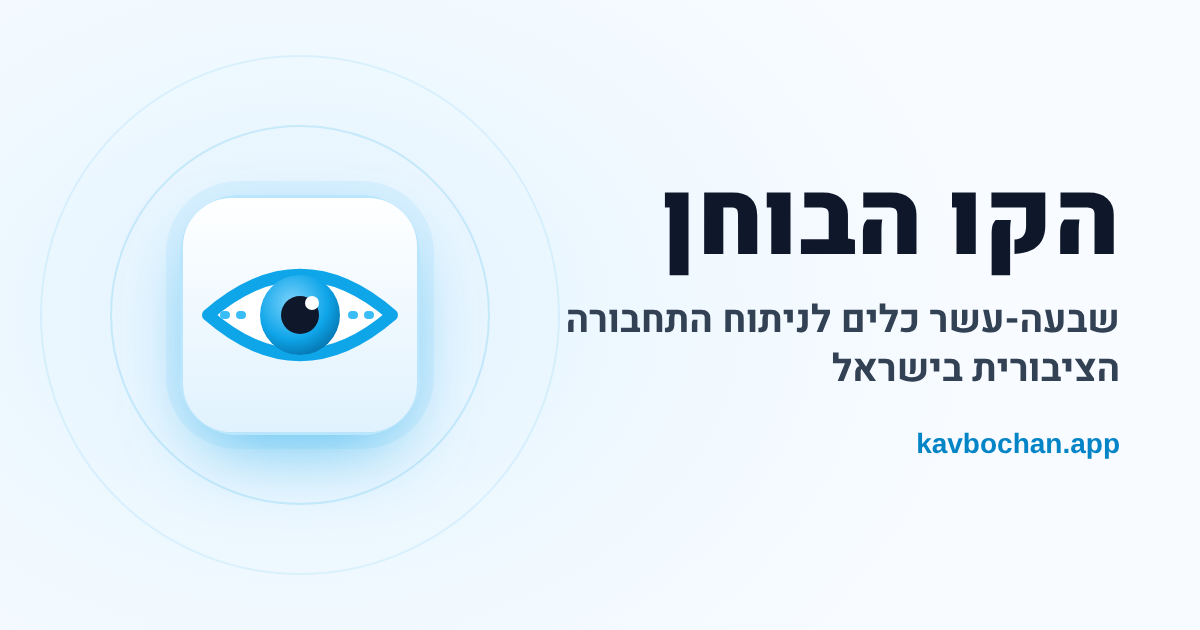
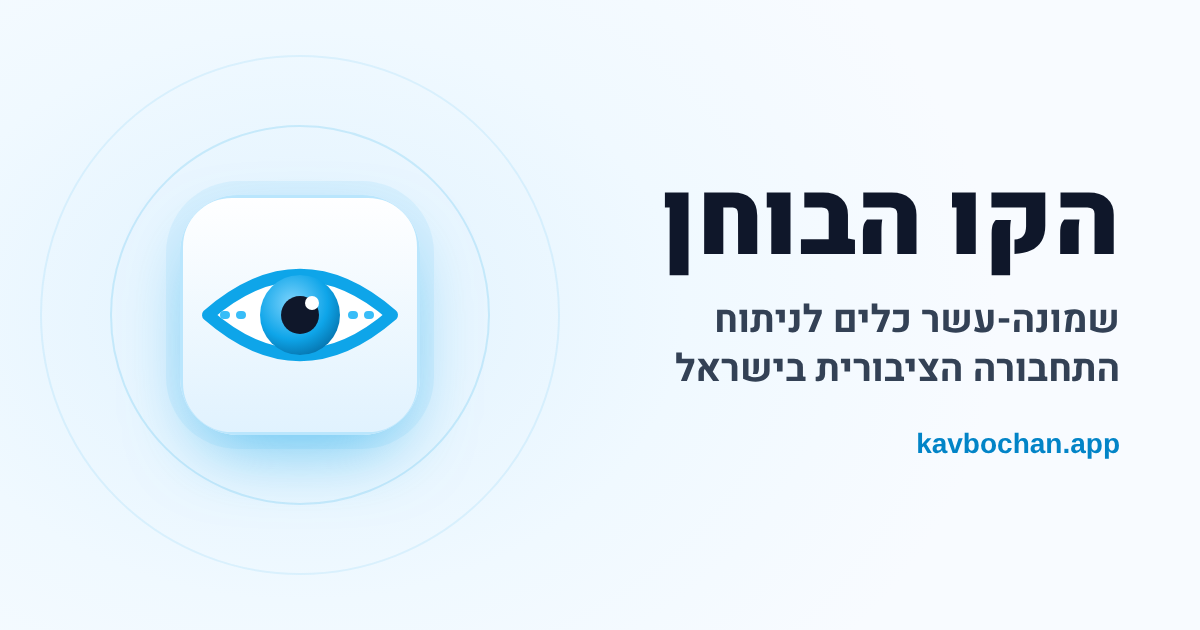
האוטובוס הבא עולה לקו הבוחן
- כרטיס חדש בדף הבית בקבוצה "ביצועים בשטח", עם סמל משלו; שמונה-עשר כלים
- דף הבית הקבוע ב-index.html נבנה מחדש (tools/build_kavpach.mjs)
- versions.json: live-bus 1.0, ודף הבית 5.4 "כלי חדש: האוטובוס הבא"
- live-bus/index.html: בלי noindex, גרסה בתחתית, חזרה לקו הבוחן, כרטיס שיתוף
- כרטיס שיתוף לכלי וכרטיס הקו הבוחן מחדש (og-image.png?v=10)
- sitemap, README ורשימת המפתחות ב-CLAUDE.md

Claude-Session: https://claude.ai/code/session_01XVdRW2zNZar2SDTYThjgoD

Changed region(s): [[0.4625, 0.4825, 0.925, 0.6032]]

diff --git a/index.html b/index.html
@@ -24,7 +24,7 @@
 <meta property="og:description" content="כלים חופשיים לבחינת התחבורה הציבורית: היסטוריית קווים ותחנות מ-2003, נגישות אזורי תעשייה, תחנות בעייתיות ועוד, על בסיס הנתונים הרשמיים וארכיון אתרי המידע לנוסעים." />
 <meta property="og:url" content="https://kavbochan.app/" />
 <meta property="og:site_name" content="הקו הבוחן" />
-<meta property="og:image" content="https://kavbochan.app/og-image.png?v=9" />
+<meta property="og:image" content="https://kavbochan.app/og-image.png?v=10" />
 <meta property="og:image:width" content="1200" />
 <meta property="og:image:height" content="630" />
 <meta name="twitter:card" content="summary_large_image" />
@@ -40,8 +40,8 @@
 <noscript><link href="https://fonts.googleapis.com/css2?family=Heebo:wght@300;400;500;700;800;900&family=IBM+Plex+Sans+Hebrew:wght@400;500;600;700&family=Rubik:wght@500;600;700;800;900&display=swap" rel="stylesheet" /></noscript>
 <link rel="stylesheet" href="vendor/kavpach.css?v=858214f49b" />
 <!-- דף הבית החדש (העין הבוחנת) ומראה הכלים קו פח והקו המוזהב — home/ -->
-<link rel="stylesheet" href="home/home.css?v=54a986c494" />
-<link rel="preload" as="script" href="home/home.js?v=54a986c494" />
+<link rel="stylesheet" href="home/home.css?v=7dadaca913" />
+<link rel="preload" as="script" href="home/home.js?v=7dadaca913" />
 <script>
   // רענון בתוך כלי (#kavpach / #מוזהב): לא מהבהבים את מסך הבחירה של הקו הבוחן
   // לפני שהאפליקציה עולה — מציגים טעינה מיד (שלמה 18.09)
@@ -110,17 +110,17 @@
 <header class="top"><div class="wrap">
 <a class="brand" href="./" data-top>הקו הבוחן</a>
 <nav class="nav" aria-label="ניווט ראשי"><a href="#tools">הכלים</a><a href="#g-lines">קווים ותחנות</a><a href="#g-rail">רכבת</a><a href="#partners">שיתופי פעולה</a><a href="#about" data-about>קצת עליי</a></nav>
-<button class="chip-ver" type="button" data-ver-chip title="מה השתנה בגרסה הזו">גרסה 5.3</button>
+<button class="chip-ver" type="button" data-ver-chip title="מה השתנה בגרסה הזו">גרסה 5.4</button>
 <a class="gh" href="https://github.com/Transit-Freak/kav-bochan" target="_blank" rel="noopener" aria-label="קוד המקור של האתר ב-GitHub" title="קוד המקור ב-GitHub"><svg viewBox="0 0 16 16" width="18" height="18" fill="currentColor" aria-hidden="true"><path d="M8 0C3.58 0 0 3.58 0 8c0 3.54 2.29 6.53 5.47 7.59.4.07.55-.17.55-.38 0-.19-.01-.82-.01-1.49-2.01.37-2.53-.49-2.69-.94-.09-.23-.48-.94-.82-1.13-.28-.15-.68-.52-.01-.53.63-.01 1.08.58 1.23.82.72 1.21 1.87.87 2.33.66.07-.52.28-.87.51-1.07-1.78-.2-3.64-.89-3.64-3.95 0-.87.31-1.59.82-2.15-.08-.2-.36-1.02.08-2.12 0 0 .67-.21 2.2.82.64-.18 1.32-.27 2-.27.68 0 1.36.09 2 .27 1.53-1.04 2.2-.82 2.2-.82.44 1.1.16 1.92.08 2.12.51.56.82 1.27.82 2.15 0 3.07-1.87 3.75-3.65 3.95.29.25.54.73.54 1.48 0 1.07-.01 1.93-.01 2.2 0 .21.15.46.55.38A8.013 8.013 0 0016 8c0-4.42-3.58-8-8-8z"/></svg></a>
 <span data-a11y-slot style="display:inline-flex;flex:none;width:44px;height:44px"></span>
 </div></header>
 <main>
 <section class="hero"><div class="wrap"><div>
 <div class="brandline"><h1 class="nm">הקו הבוחן</h1></div>
-<p class="h1">שבעה-עשר כלים לניתוח התחבורה הציבורית — במה לבחור?</p>
+<p class="h1">שמונה-עשר כלים לניתוח התחבורה הציבורית — במה לבחור?</p>
 <div class="ctas"><a class="btn btn-p" href="#tools">לכל הכלים <svg viewBox="0 0 20 20" fill="none" aria-hidden="true"><path d="M12.5 4.5 7 10l5.5 5.5" stroke="currentColor" stroke-width="2.2" stroke-linecap="round" stroke-linejoin="round"/></svg></a><button class="btn btn-s" type="button" data-about-btn aria-expanded="false" aria-controls="about">קצת עליי <svg class="car" viewBox="0 0 20 20" fill="none" aria-hidden="true"><path d="m5 8 5 5 5-5" stroke="currentColor" stroke-width="2.2" stroke-linecap="round" stroke-linejoin="round"/></svg></button></div>
 </div>
-<nav class="stage" aria-label="כל הכלים סביב העין הבוחנת"><div class="halo"></div><div class="oring"></div><div class="oring r2"></div><div class="beam"></div><div class="eye"><svg viewBox="0 0 120 120" aria-hidden="true"><defs><linearGradient id="kb-eye-bg-stage" x1="0" y1="0" x2="0" y2="1"><stop offset="0" stop-color="#ffffff"/><stop offset="1" stop-color="#e0f2fe"/></linearGradient><radialGradient id="kb-eye-ir-stage" cx=".4" cy=".35" r=".75"><stop offset="0" stop-color="#7dd3fc"/><stop offset=".6" stop-color="#0ea5e9"/><stop offset="1" stop-color="#0369a1"/></radialGradient><clipPath id="kb-eye-clip-stage"><path d="M14 60 Q60 20 106 60 Q60 100 14 60 Z"/></clipPath></defs><rect width="120" height="120" rx="26" fill="url(#kb-eye-bg-stage)"/><rect x=".75" y=".75" width="118.5" height="118.5" rx="25.25" fill="none" stroke="#bae6fd" stroke-width="1.5"/></svg><div class="eye-layer"><svg viewBox="0 0 120 120" aria-hidden="true"><g class=""><path d="M14 60 Q60 20 106 60 Q60 100 14 60 Z" fill="#fff"/><path d="M14 60 Q60 20 106 60 Q60 100 14 60 Z" stroke="#0ea5e9" stroke-width="6" fill="none" stroke-linejoin="round"/><g clip-path="url(#kb-eye-clip-stage)"><g class="kb-iris-js"><circle cx="60" cy="60" r="20" fill="url(#kb-eye-ir-stage)"/><circle class="kb-pupil" cx="60" cy="60" r="9.5" fill="#0f172a"/></g><circle cx="66" cy="54" r="3.5" fill="#fff"/></g></g><path d="M22 60 H34 M86 60 H98" stroke="#38bdf8" stroke-width="4" stroke-linecap="round" stroke-dasharray="1 7"/></svg></div></div><a class="orb" href="#פח" data-pick="kavpach" data-boot-tool data-k="kavpach" data-th="-90" aria-label="קו פח" style="left:calc(50.000% - var(--s) / 2);top:calc(9.500% - var(--s) / 2)"><span data-icon="kavpach"></span><b>קו פח</b></a><a class="orb" href="#מוזהב" data-pick="golden" data-boot-tool data-k="golden" data-th="-70" aria-label="הקו המוזהב" style="left:calc(63.852% - var(--s) / 2);top:calc(11.942% - var(--s) / 2)"><span data-icon="golden"></span><b>הקו המוזהב</b></a><a class="orb lb-r" href="https://transit-freak.github.io/kav-bug/" target="_blank" rel="noopener" data-k="kavbug" data-th="-50" aria-label="קו באג" style="left:calc(76.033% - var(--s) / 2);top:calc(18.975% - var(--s) / 2)"><span data-icon="kavbug"></span><b>קו באג</b></a><a class="orb lb-r" href="next-station/" data-k="next-station" data-th="-30" aria-label="התחנה הבאה" style="left:calc(85.074% - var(--s) / 2);top:calc(29.750% - var(--s) / 2)"><span data-icon="next-station"></span><b>התחנה הבאה</b></a><a class="orb lb-r" href="skip-stops/" data-k="skip-stops" data-th="-10" aria-label="הקו המדלג" style="left:calc(89.885% - var(--s) / 2);top:calc(42.967% - var(--s) / 2)"><span data-icon="skip-stops"></span><b>הקו המדלג</b></a><a class="orb lb-r" href="line-history/" data-k="line-history" data-th="10" aria-label="הקו בזמן" style="left:calc(89.885% - var(--s) / 2);top:calc(57.033% - var(--s) / 2)"><span data-icon="line-history"></span><b>הקו בזמן</b></a><a class="orb lb-r" href="line-changes/" data-k="line-changes" data-th="30" aria-label="מצגת לשינוי בקו" style="left:calc(85.074% - var(--s) / 2);top:calc(70.250% - var(--s) / 2)"><span data-icon="line-changes"></span><b>מצגת לשינוי בקו</b></a><a class="orb lb-r" href="bus/" data-k="bus" data-th="50" aria-label="מדד דיוק האוטובוסים" style="left:calc(76.033% - var(--s) / 2);top:calc(81.025% - var(--s) / 2)"><span data-icon="bus"></span><b>מדד דיוק האוטובוסים</b></a><a class="orb" href="bus-speed/" data-k="bus-speed" data-th="70" aria-label="איפה האוטובוס נתקע" style="left:calc(63.852% - var(--s) / 2);top:calc(88.058% - var(--s) / 2)"><span data-icon="bus-speed"></span><b>איפה האוטובוס נתקע</b></a><a class="orb" href="alerts/" data-k="alerts" data-th="90" aria-label="הקו המודיע" style="left:calc(50.000% - var(--s) / 2);top:calc(90.500% - var(--s) / 2)"><span data-icon="alerts"></span><b>הקו המודיע</b></a><a class="orb" href="fleet/" data-k="fleet" data-th="110" aria-label="צי הרכבים" style="left:calc(36.148% - var(--s) / 2);top:calc(88.058% - var(--s) / 2)"><span data-icon="fleet"></span><b>צי הרכבים</b></a><a class="orb lb-l" href="rail/" data-k="rail" data-th="130" aria-label="מדד אמינות הרכבת" style="left:calc(23.967% - var(--s) / 2);top:calc(81.025% - var(--s) / 2)"><span data-icon="rail"></span><b>מדד אמינות הרכבת</b></a><a class="orb lb-l" href="rail/reception/" data-k="reception" data-th="150" aria-label="קליטה ברכבת" style="left:calc(14.926% - var(--s) / 2);top:calc(70.250% - var(--s) / 2)"><span data-icon="reception"></span><b>קליטה ברכבת</b></a><a class="orb lb-l" href="feeder/" data-k="feeder" data-th="170" aria-label="הקו המזין" style="left:calc(10.115% - var(--s) / 2);top:calc(57.033% - var(--s) / 2)"><span data-icon="feeder"></span><b>הקו המזין</b></a><a class="orb lb-l" href="fares/" data-k="fares" data-th="190" aria-label="המחירון" style="left:calc(10.115% - var(--s) / 2);top:calc(42.967% - var(--s) / 2)"><span data-icon="fares"></span><b>המחירון</b></a><a class="orb lb-l" href="ratzif/" data-k="ratzif" data-th="210" aria-label="רציף כפול" style="left:calc(14.926% - var(--s) / 2);top:calc(29.750% - var(--s) / 2)"><span data-icon="ratzif"></span><b>רציף כפול</b></a><a class="orb lb-l" href="game/" data-k="game" data-th="230" aria-label="🔒 משחק הקווים · בבנייה" style="left:calc(23.967% - var(--s) / 2);top:calc(18.975% - var(--s) / 2)"><span data-icon="game"></span><b>🔒 משחק הקווים · בבנייה</b></a><a class="orb" href="parks/" data-k="parks" data-th="250" aria-label="נגישות אזורי תעשייה" style="left:calc(36.148% - var(--s) / 2);top:calc(11.942% - var(--s) / 2)"><span data-icon="parks"></span><b>נגישות אזורי תעשייה</b></a></nav>
+<nav class="stage" aria-label="כל הכלים סביב העין הבוחנת"><div class="halo"></div><div class="oring"></div><div class="oring r2"></div><div class="beam"></div><div class="eye"><svg viewBox="0 0 120 120" aria-hidden="true"><defs><linearGradient id="kb-eye-bg-stage" x1="0" y1="0" x2="0" y2="1"><stop offset="0" stop-color="#ffffff"/><stop offset="1" stop-color="#e0f2fe"/></linearGradient><radialGradient id="kb-eye-ir-stage" cx=".4" cy=".35" r=".75"><stop offset="0" stop-color="#7dd3fc"/><stop offset=".6" stop-color="#0ea5e9"/><stop offset="1" stop-color="#0369a1"/></radialGradient><clipPath id="kb-eye-clip-stage"><path d="M14 60 Q60 20 106 60 Q60 100 14 60 Z"/></clipPath></defs><rect width="120" height="120" rx="26" fill="url(#kb-eye-bg-stage)"/><rect x=".75" y=".75" width="118.5" height="118.5" rx="25.25" fill="none" stroke="#bae6fd" stroke-width="1.5"/></svg><div class="eye-layer"><svg viewBox="0 0 120 120" aria-hidden="true"><g class=""><path d="M14 60 Q60 20 106 60 Q60 100 14 60 Z" fill="#fff"/><path d="M14 60 Q60 20 106 60 Q60 100 14 60 Z" stroke="#0ea5e9" stroke-width="6" fill="none" stroke-linejoin="round"/><g clip-path="url(#kb-eye-clip-stage)"><g class="kb-iris-js"><circle cx="60" cy="60" r="20" fill="url(#kb-eye-ir-stage)"/><circle class="kb-pupil" cx="60" cy="60" r="9.5" fill="#0f172a"/></g><circle cx="66" cy="54" r="3.5" fill="#fff"/></g></g><path d="M22 60 H34 M86 60 H98" stroke="#38bdf8" stroke-width="4" stroke-linecap="round" stroke-dasharray="1 7"/></svg></div></div><a class="orb" href="#פח" data-pick="kavpach" data-boot-tool data-k="kavpach" data-th="-90" aria-label="קו פח" style="left:calc(50.000% - var(--s) / 2);top:calc(9.500% - var(--s) / 2)"><span data-icon="kavpach"></span><b>קו פח</b></a><a class="orb" href="#מוזהב" data-pick="golden" data-boot-tool data-k="golden" data-th="-71.05" aria-label="הקו המוזהב" style="left:calc(63.150% - var(--s) / 2);top:calc(11.694% - var(--s) / 2)"><span data-icon="golden"></span><b>הקו המוזהב</b></a><a class="orb lb-r" href="https://transit-freak.github.io/kav-bug/" target="_blank" rel="noopener" data-k="kavbug" data-th="-52.11" aria-label="קו באג" style="left:calc(74.876% - var(--s) / 2);top:calc(18.040% - var(--s) / 2)"><span data-icon="kavbug"></span><b>קו באג</b></a><a class="orb lb-r" href="next-station/" data-k="next-station" data-th="-33.16" aria-label="התחנה הבאה" style="left:calc(83.905% - var(--s) / 2);top:calc(27.849% - var(--s) / 2)"><span data-icon="next-station"></span><b>התחנה הבאה</b></a><a class="orb lb-r" href="skip-stops/" data-k="skip-stops" data-th="-14.21" aria-label="הקו המדלג" style="left:calc(89.261% - var(--s) / 2);top:calc(40.058% - var(--s) / 2)"><span data-icon="skip-stops"></span><b>הקו המדלג</b></a><a class="orb lb-r" href="line-history/" data-k="line-history" data-th="4.74" aria-label="הקו בזמן" style="left:calc(90.362% - var(--s) / 2);top:calc(53.344% - var(--s) / 2)"><span data-icon="line-history"></span><b>הקו בזמן</b></a><a class="orb lb-r" href="line-changes/" data-k="line-changes" data-th="23.68" aria-label="מצגת לשינוי בקו" style="left:calc(87.089% - var(--s) / 2);top:calc(66.269% - var(--s) / 2)"><span data-icon="line-changes"></span><b>מצגת לשינוי בקו</b></a><a class="orb lb-r" href="bus/" data-k="bus" data-th="42.63" aria-label="מדד דיוק האוטובוסים" style="left:calc(79.797% - var(--s) / 2);top:calc(77.430% - var(--s) / 2)"><span data-icon="bus"></span><b>מדד דיוק האוטובוסים</b></a><a class="orb lb-r" href="bus-speed/" data-k="bus-speed" data-th="61.58" aria-label="איפה האוטובוס נתקע" style="left:calc(69.276% - var(--s) / 2);top:calc(85.619% - var(--s) / 2)"><span data-icon="bus-speed"></span><b>איפה האוטובוס נתקע</b></a><a class="orb" href="alerts/" data-k="alerts" data-th="80.53" aria-label="הקו המודיע" style="left:calc(56.666% - var(--s) / 2);top:calc(89.948% - var(--s) / 2)"><span data-icon="alerts"></span><b>הקו המודיע</b></a><a class="orb" href="fleet/" data-k="fleet" data-th="99.47" aria-label="צי הרכבים" style="left:calc(43.334% - var(--s) / 2);top:calc(89.948% - var(--s) / 2)"><span data-icon="fleet"></span><b>צי הרכבים</b></a><a class="orb lb-l" href="live-bus/" data-k="live-bus" data-th="118.42" aria-label="האוטובוס הבא" style="left:calc(30.724% - var(--s) / 2);top:calc(85.619% - var(--s) / 2)"><span data-icon="live-bus"></span><b>האוטובוס הבא</b></a><a class="orb lb-l" href="rail/" data-k="rail" data-th="137.37" aria-label="מדד אמינות הרכבת" style="left:calc(20.203% - var(--s) / 2);top:calc(77.430% - var(--s) / 2)"><span data-icon="rail"></span><b>מדד אמינות הרכבת</b></a><a class="orb lb-l" href="rail/reception/" data-k="reception" data-th="156.32" aria-label="קליטה ברכבת" style="left:calc(12.911% - var(--s) / 2);top:calc(66.269% - var(--s) / 2)"><span data-icon="reception"></span><b>קליטה ברכבת</b></a><a class="orb lb-l" href="feeder/" data-k="feeder" data-th="175.26" aria-label="הקו המזין" style="left:calc(9.638% - var(--s) / 2);top:calc(53.344% - var(--s) / 2)"><span data-icon="feeder"></span><b>הקו המזין</b></a><a class="orb lb-l" href="fares/" data-k="fares" data-th="194.21" aria-label="המחירון" style="left:calc(10.739% - var(--s) / 2);top:calc(40.058% - var(--s) / 2)"><span data-icon="fares"></span><b>המחירון</b></a><a class="orb lb-l" href="ratzif/" data-k="ratzif" data-th="213.16" aria-label="רציף כפול" style="left:calc(16.095% - var(--s) / 2);top:calc(27.849% - var(--s) / 2)"><span data-icon="ratzif"></span><b>רציף כפול</b></a><a class="orb lb-l" href="game/" data-k="game" data-th="232.11" aria-label="🔒 משחק הקווים · בבנייה" style="left:calc(25.124% - var(--s) / 2);top:calc(18.040% - var(--s) / 2)"><span data-icon="game"></span><b>🔒 משחק הקווים · בבנייה</b></a><a class="orb" href="parks/" data-k="parks" data-th="251.05" aria-label="נגישות אזורי תעשייה" style="left:calc(36.850% - var(--s) / 2);top:calc(11.694% - var(--s) / 2)"><span data-icon="parks"></span><b>נגישות אזורי תעשייה</b></a></nav>
 </div></section>
 <div class="wrap"><div class="about" id="about" role="region" aria-label="קצת עליי"><div class="about-card">
 <figure class="about-photo"><img src="media/shlomi.jpg" width="640" height="965" alt="שלומי ליד שלט תחנה אישי שקיבל ליום הולדתו" loading="lazy" decoding="async"><figcaption>התחנה הפרטית שלי 🚏 מתנת יום הולדת 20 מההורים הכי נפלאים בעולם: מספר התחנה הוא תאריך הלידה שלי, והקווים על השלט — קווים ששיניתי.</figcaption></figure>
@@ -134,7 +134,7 @@
 <section class="tools" id="tools"><div class="wrap">
 <div class="sec-head"><h2>הכלים</h2><nav class="jump" aria-label="תחומים"><a href="#g-lines">קווים ותחנות</a><a href="#g-live">ביצועים בשטח</a><a href="#g-rail">רכבת</a><a href="#g-plan">מחירים ומסופים</a><a href="#g-game">משחק</a></nav></div>
 <div class="group" id="g-lines"><div class="g-head"><h3>קווים ותחנות</h3><span class="rule"></span></div><div class="grid wides"><a class="card wide rv" data-k="kavpach" href="#פח" data-pick="kavpach" data-boot-tool style="--acc:#64748b"><span class="ver" data-ver="kavpach">גרסה 4.3</span><div class="ico" data-icon="kavpach"></div><h2>קו פח</h2><p>קווים ריקים ובזבזניים — מועמדים לביטול או צמצום</p><div class="card-foot"><span class="upd" data-upd="kavpach"></span><span class="go"><span data-cta>כניסה</span><svg viewBox="0 0 20 20" fill="none" aria-hidden="true"><path d="M12.5 4.5 7 10l5.5 5.5" stroke="currentColor" stroke-width="2.2" stroke-linecap="round" stroke-linejoin="round"/></svg></span></div></a><a class="card wide rv" data-k="golden" href="#מוזהב" data-pick="golden" data-boot-tool style="--acc:#d97706"><span class="ver" data-ver="kavpach">גרסה 4.3</span><div class="ico" data-icon="golden"></div><h2>הקו המוזהב</h2><p>הקווים המצטיינים — הסטנדרט שאליו כדאי לשאוף</p><div class="card-foot"><span class="upd" data-upd="kavpach"></span><span class="go"><span data-cta>כניסה</span><svg viewBox="0 0 20 20" fill="none" aria-hidden="true"><path d="M12.5 4.5 7 10l5.5 5.5" stroke="currentColor" stroke-width="2.2" stroke-linecap="round" stroke-linejoin="round"/></svg></span></div></a></div><div class="grid" style="--cols:4"><a class="card rv" data-k="kavbug" href="https://transit-freak.github.io/kav-bug/" target="_blank" rel="noopener" style="--acc:#6366f1"><span class="ver" data-ver="kavbug">גרסה 6.0</span><div class="ico" data-icon="kavbug"></div><h2>קו באג</h2><p>תקלות גאומטריות במסלולי הקווים — עיקופים ובליטות מיותרים</p><div class="card-foot"><span class="upd" data-upd="kavbug"></span><span class="go"><span data-cta>כניסה</span><svg viewBox="0 0 20 20" fill="none" aria-hidden="true"><path d="M12.5 4.5 7 10l5.5 5.5" stroke="currentColor" stroke-width="2.2" stroke-linecap="round" stroke-linejoin="round"/></svg></span></div></a><a class="card rv" data-k="next-station" href="next-station/" style="--acc:#2563eb"><span class="ver" data-ver="next-station">גרסה 2.0</span><div class="ico" data-icon="next-station"></div><h2>התחנה הבאה</h2><p>תחנות ששמן אינו תואם לרחוב שבכתובת</p><div class="card-foot"><span class="upd" data-upd="next-station"></span><span class="go"><span data-cta>כניסה</span><svg viewBox="0 0 20 20" fill="none" aria-hidden="true"><path d="M12.5 4.5 7 10l5.5 5.5" stroke="currentColor" stroke-width="2.2" stroke-linecap="round" stroke-linejoin="round"/></svg></span></div></a><a class="card rv" data-k="skip-stops" href="skip-stops/" style="--acc:#ea580c"><span class="ver" data-ver="skip-stops">גרסה 3.2</span><div class="ico" data-icon="skip-stops"></div><h2>הקו המדלג</h2><p>קווים שחולפים ליד תחנה פעילה — בלי לעצור בה</p><div class="card-foot"><span class="upd" data-upd="skip-stops"></span><span class="go"><span data-cta>כניסה</span><svg viewBox="0 0 20 20" fill="none" aria-hidden="true"><path d="M12.5 4.5 7 10l5.5 5.5" stroke="currentColor" stroke-width="2.2" stroke-linecap="round" stroke-linejoin="round"/></svg></span></div></a><a class="card rv" data-k="line-history" href="line-history/" style="--acc:#7c3aed"><span class="ver" data-ver="line-history">גרסה 4.19</span><div class="ico" data-icon="line-history"></div><h2>הקו בזמן</h2><p>היסטוריית קווים מ-2003 ועד היום — מסלול, שרטוט, תחנות, שמות ולוחות זמנים</p><div class="card-foot"><span class="upd" data-upd="line-history"></span><span class="go"><span data-cta>כניסה</span><svg viewBox="0 0 20 20" fill="none" aria-hidden="true"><path d="M12.5 4.5 7 10l5.5 5.5" stroke="currentColor" stroke-width="2.2" stroke-linecap="round" stroke-linejoin="round"/></svg></span></div></a><a class="card rv" data-k="line-changes" href="line-changes/" style="--acc:#16a34a"><span class="ver" data-ver="line-changes">גרסה 1.6</span><div class="ico" data-icon="line-changes"></div><h2>מצגת לשינוי בקו</h2><p>בוחרים קו ושינוי שמתקרב, ומורידים מצגת PDF לנוסעים: מה משתנה, מפה של המסלול הישן והחדש, ואיפה לעלות במקום תחנה שמבוטלת</p><div class="card-foot"><span class="upd" data-upd="line-changes"></span><span class="go"><span data-cta>כניסה</span><svg viewBox="0 0 20 20" fill="none" aria-hidden="true"><path d="M12.5 4.5 7 10l5.5 5.5" stroke="currentColor" stroke-width="2.2" stroke-linecap="round" stroke-linejoin="round"/></svg></span></div></a></div></div>
-<div class="group" id="g-live"><div class="g-head"><h3>ביצועים בשטח</h3><span class="rule"></span></div><div class="grid" style="--cols:4"><a class="card rv" data-k="bus" href="bus/" style="--acc:#059669"><span class="ver" data-ver="bus">גרסה 3.2</span><div class="ico" data-icon="bus"></div><h2>מדד דיוק האוטובוסים</h2><p>כל אוטובוס בארץ מול הלו&quot;ז, תחנה אחרי תחנה: כמה הגיעו בזמן, מי יצא מוקדם ומי איחר ואיפה לאורך הקו — לפי קו, מפעיל, עיר ושעה, יום אחרי יום, מנתוני דאטאבוס</p><div class="card-foot"><span class="upd" data-upd="bus"></span><span class="go"><span data-cta>כניסה</span><svg viewBox="0 0 20 20" fill="none" aria-hidden="true"><path d="M12.5 4.5 7 10l5.5 5.5" stroke="currentColor" stroke-width="2.2" stroke-linecap="round" stroke-linejoin="round"/></svg></span></div></a><a class="card rv" data-k="bus-speed" href="bus-speed/" style="--acc:#dc2626"><span class="ver" data-ver="bus-speed">גרסה 2.3</span><div class="ico" data-icon="bus-speed"></div><h2>איפה האוטובוס נתקע</h2><p>המהירות של האוטובוסים בכל רחוב ובכל שעה, לפי המיקום שהם משדרים: איפה נתקעים, מתי, ואיזה יישוב הכי עמוס</p><div class="card-foot"><span class="upd" data-upd="bus-speed"></span><span class="go"><span data-cta>כניסה</span><svg viewBox="0 0 20 20" fill="none" aria-hidden="true"><path d="M12.5 4.5 7 10l5.5 5.5" stroke="currentColor" stroke-width="2.2" stroke-linecap="round" stroke-linejoin="round"/></svg></span></div></a><a class="card rv" data-k="alerts" href="alerts/" style="--acc:#c026d3"><span class="ver" data-ver="alerts">גרסה 2.0</span><div class="ico" data-icon="alerts"></div><h2>הקו המודיע</h2><p>עבודות, אירועים, הפגנות וחסימות: כל השינויים הזמניים בקווים, עם המסלול העוקף על המפה, התחנות שבוטלו זמנית והתחנות החלופיות</p><div class="card-foot"><span class="upd" data-upd="alerts"></span><span class="go"><span data-cta>כניסה</span><svg viewBox="0 0 20 20" fill="none" aria-hidden="true"><path d="M12.5 4.5 7 10l5.5 5.5" stroke="currentColor" stroke-width="2.2" stroke-linecap="round" stroke-linejoin="round"/></svg></span></div></a><a class="card rv" data-k="fleet" href="fleet/" style="--acc:#2563eb"><span class="ver" data-ver="fleet">גרסה 4.16</span><div class="ico" data-icon="fleet"></div><h2>צי הרכבים</h2><p>כל האוטובוסים שנצפו בשידורי האיכון — לאיזו חברה כל רכב שייך, מאיזו שנה, מתי נצפה ומה פרטיו במאגר הרישוי</p><div class="card-foot"><span class="upd" data-upd="fleet"></span><span class="go"><span data-cta>כניסה</span><svg viewBox="0 0 20 20" fill="none" aria-hidden="true"><path d="M12.5 4.5 7 10l5.5 5.5" stroke="currentColor" stroke-width="2.2" stroke-linecap="round" stroke-linejoin="round"/></svg></span></div></a></div></div>
+<div class="group" id="g-live"><div class="g-head"><h3>ביצועים בשטח</h3><span class="rule"></span></div><div class="grid" style="--cols:4"><a class="card rv" data-k="bus" href="bus/" style="--acc:#059669"><span class="ver" data-ver="bus">גרסה 3.2</span><div class="ico" data-icon="bus"></div><h2>מדד דיוק האוטובוסים</h2><p>כל אוטובוס בארץ מול הלו&quot;ז, תחנה אחרי תחנה: כמה הגיעו בזמן, מי יצא מוקדם ומי איחר ואיפה לאורך הקו — לפי קו, מפעיל, עיר ושעה, יום אחרי יום, מנתוני דאטאבוס</p><div class="card-foot"><span class="upd" data-upd="bus"></span><span class="go"><span data-cta>כניסה</span><svg viewBox="0 0 20 20" fill="none" aria-hidden="true"><path d="M12.5 4.5 7 10l5.5 5.5" stroke="currentColor" stroke-width="2.2" stroke-linecap="round" stroke-linejoin="round"/></svg></span></div></a><a class="card rv" data-k="bus-speed" href="bus-speed/" style="--acc:#dc2626"><span class="ver" data-ver="bus-speed">גרסה 2.3</span><div class="ico" data-icon="bus-speed"></div><h2>איפה האוטובוס נתקע</h2><p>המהירות של האוטובוסים בכל רחוב ובכל שעה, לפי המיקום שהם משדרים: איפה נתקעים, מתי, ואיזה יישוב הכי עמוס</p><div class="card-foot"><span class="upd" data-upd="bus-speed"></span><span class="go"><span data-cta>כניסה</span><svg viewBox="0 0 20 20" fill="none" aria-hidden="true"><path d="M12.5 4.5 7 10l5.5 5.5" stroke="currentColor" stroke-width="2.2" stroke-linecap="round" stroke-linejoin="round"/></svg></span></div></a><a class="card rv" data-k="alerts" href="alerts/" style="--acc:#c026d3"><span class="ver" data-ver="alerts">גרסה 2.0</span><div class="ico" data-icon="alerts"></div><h2>הקו המודיע</h2><p>עבודות, אירועים, הפגנות וחסימות: כל השינויים הזמניים בקווים, עם המסלול העוקף על המפה, התחנות שבוטלו זמנית והתחנות החלופיות</p><div class="card-foot"><span class="upd" data-upd="alerts"></span><span class="go"><span data-cta>כניסה</span><svg viewBox="0 0 20 20" fill="none" aria-hidden="true"><path d="M12.5 4.5 7 10l5.5 5.5" stroke="currentColor" stroke-width="2.2" stroke-linecap="round" stroke-linejoin="round"/></svg></span></div></a><a class="card rv" data-k="fleet" href="fleet/" style="--acc:#2563eb"><span class="ver" data-ver="fleet">גרסה 4.16</span><div class="ico" data-icon="fleet"></div><h2>צי הרכבים</h2><p>כל האוטובוסים שנצפו בשידורי האיכון — לאיזו חברה כל רכב שייך, מאיזו שנה, מתי נצפה ומה פרטיו במאגר הרישוי</p><div class="card-foot"><span class="upd" data-upd="fleet"></span><span class="go"><span data-cta>כניסה</span><svg viewBox="0 0 20 20" fill="none" aria-hidden="true"><path d="M12.5 4.5 7 10l5.5 5.5" stroke="currentColor" stroke-width="2.2" stroke-linecap="round" stroke-linejoin="round"/></svg></span></div></a><a class="card rv" data-k="live-bus" href="live-bus/" style="--acc:#0d9488"><span class="ver" data-ver="live-bus">גרסה 1.0</span><div class="ico" data-icon="live-bus"></div><h2>האוטובוס הבא</h2><p>איזה אוטובוס ייסע בנסיעה הבאה, ומה הוא עושה עכשיו — בקווים של דן בדרום ודן באר שבע</p><div class="card-foot"><span class="upd" data-upd="live-bus"></span><span class="go"><span data-cta>כניסה</span><svg viewBox="0 0 20 20" fill="none" aria-hidden="true"><path d="M12.5 4.5 7 10l5.5 5.5" stroke="currentColor" stroke-width="2.2" stroke-linecap="round" stroke-linejoin="round"/></svg></span></div></a></div></div>
 <div class="group" id="g-rail"><div class="g-head"><h3>רכבת</h3><span class="rule"></span></div><div class="grid" style="--cols:3"><a class="card rv" data-k="rail" href="rail/" style="--acc:#0284c7"><span class="ver" data-ver="rail">גרסה 3.0</span><div class="ico" data-icon="rail"></div><h2>מדד אמינות הרכבת</h2><p>כל רכבת שבלו&quot;ז מול המיקום ששידרה בפועל: כמה רכבות הגיעו בזמן, איחור לפי קו, תחנה ושעה, וכל נסיעה על המפה — יום אחרי יום, מנתוני דאטאבוס</p><div class="card-foot"><span class="upd" data-upd="rail"></span><span class="go"><span data-cta>כניסה</span><svg viewBox="0 0 20 20" fill="none" aria-hidden="true"><path d="M12.5 4.5 7 10l5.5 5.5" stroke="currentColor" stroke-width="2.2" stroke-linecap="round" stroke-linejoin="round"/></svg></span></div></a><a class="card rv" data-k="reception" href="rail/reception/" style="--acc:#7c3aed"><span class="ver" data-ver="reception">גרסה 2.0</span><div class="ico" data-icon="reception"></div><h2>קליטה ברכבת</h2><p>איפה יש קליטה סלולרית ברכבת ואיפה לא: כל 100 מטר מסילה לפי האנטנות של כל חברה, המנהרות, מהירות הנסיעה בפועל וסוג הקרון — פלאפון, סלקום, פרטנר והוט, דור 4 ודור 5</p><div class="card-foot"><span class="upd" data-upd="reception"></span><span class="go"><span data-cta>כניסה</span><svg viewBox="0 0 20 20" fill="none" aria-hidden="true"><path d="M12.5 4.5 7 10l5.5 5.5" stroke="currentColor" stroke-width="2.2" stroke-linecap="round" stroke-linejoin="round"/></svg></span></div></a><a class="card rv" data-k="feeder" href="feeder/" style="--acc:#16a34a"><span class="ver" data-ver="feeder">גרסה 2.0</span><div class="ico" data-icon="feeder"></div><h2>הקו המזין</h2><p>כלי למתכננים: האם האוטובוסים ליד תחנות הרכבת מגיעים בזמן לרכבת ויוצאים אחריה, עם המלצה כמה דקות להזיז</p><div class="card-foot"><span class="upd" data-upd="feeder"></span><span class="go"><span data-cta>כניסה</span><svg viewBox="0 0 20 20" fill="none" aria-hidden="true"><path d="M12.5 4.5 7 10l5.5 5.5" stroke="currentColor" stroke-width="2.2" stroke-linecap="round" stroke-linejoin="round"/></svg></span></div></a></div></div>
 <div class="group" id="g-plan"><div class="g-head"><h3>מחירים ומסופים</h3><span class="rule"></span></div><div class="grid" style="--cols:2"><a class="card rv" data-k="fares" href="fares/" style="--acc:#059669"><span class="ver" data-ver="fares">גרסה 2.7</span><div class="ico" data-icon="fares"></div><h2>המחירון</h2><p>כמה עולה הנסיעה — בודדת, יומי וחודשי, לכל קו או בין שתי תחנות</p><div class="card-foot"><span class="upd" data-upd="fares"></span><span class="go"><span data-cta>כניסה</span><svg viewBox="0 0 20 20" fill="none" aria-hidden="true"><path d="M12.5 4.5 7 10l5.5 5.5" stroke="currentColor" stroke-width="2.2" stroke-linecap="round" stroke-linejoin="round"/></svg></span></div></a><a class="card rv" data-k="ratzif" href="ratzif/" style="--acc:#0891b2"><span class="ver" data-ver="ratzif">גרסה 2.0</span><div class="ico" data-icon="ratzif"></div><h2>רציף כפול</h2><p>שני אוטובוסים או יותר שאמורים לצאת מאותו רציף מוצא באותה דקה — לפי לוח הרישוי הרשמי</p><div class="card-foot"><span class="upd" data-upd="ratzif"></span><span class="go"><span data-cta>כניסה</span><svg viewBox="0 0 20 20" fill="none" aria-hidden="true"><path d="M12.5 4.5 7 10l5.5 5.5" stroke="currentColor" stroke-width="2.2" stroke-linecap="round" stroke-linejoin="round"/></svg></span></div></a></div></div>
 <div class="group" id="g-game"><div class="g-head"><h3>משחק</h3><span class="rule"></span></div><div class="grid" style="--cols:1"><a class="card rv" data-k="game" href="game/" style="--acc:#e11d48"><span class="ver" data-ver="game">גרסה 0.5</span><div class="ico" data-icon="game"></div><h2>🔒 משחק הקווים · בטא</h2><p>מתכננים קווי אוטובוס בקריית מלאכי בתלת־ממד. גרסת בטא — בכל שבוע נפתחים 2 מקומות לבודקים</p><div class="card-foot"><span class="upd" data-upd="game"></span><span class="go"><span data-cta>כניסה</span><svg viewBox="0 0 20 20" fill="none" aria-hidden="true"><path d="M12.5 4.5 7 10l5.5 5.5" stroke="currentColor" stroke-width="2.2" stroke-linecap="round" stroke-linejoin="round"/></svg></span></div></a></div></div>
@@ -155,7 +155,7 @@
     </div>
   </div>
   <!-- הסמלים, העין והגרסאות של דף הבית — לפני React, כדי שהדף הסטטי יעבוד מיד -->
-  <script src="home/home.js?v=54a986c494"></script>
+  <script src="home/home.js?v=7dadaca913"></script>
   <script>try { KBH.mount(document.querySelector('#static-choice .kbh')); } catch (e) {}</script>
   <!-- KavPach.js מקומפל מראש (tools/build_kavpach.mjs, רץ ב-GitHub Actions בכל
        שינוי ב-kavpach/src) עם חותמת ?v= לפי תוכן — בלי Babel בדפדפן. -->

diff --git a/home/home.js b/home/home.js
@@ -508,6 +508,21 @@ const ICON={
     <circle cx="60" cy="74" r="7" fill="#78350f"/><rect x="57" y="76" width="6" height="15" rx="3" fill="#78350f"/>
   </g>`),
 
+/* האוטובוס הבא — אוטובוס בדרך, שעון עם חץ "הבא" ונקודה חיה ששודרת */
+'live-bus':()=>tile('livebus','#14b8a6','#042f2e',`
+  <path d="M10 109 H110" stroke="#fff" stroke-opacity=".3" stroke-width="3" stroke-linecap="round" stroke-dasharray="9 7"/>
+  <g transform="translate(18 57)">${busSide('lb',{stripe:'#0d9488'})}</g>
+  <g filter="url(#kb-drop)">
+    <circle cx="36" cy="32" r="17" fill="#fff"/>
+    <circle cx="36" cy="32" r="13.2" fill="#f0fdfa"/>
+    <path d="${arc(36,32,13.2,-90,200)}" stroke="#0d9488" stroke-width="2.6" fill="none" stroke-linecap="round"/>
+    <path d="M36 24 V32 L41.5 35.5" stroke="#0f172a" stroke-width="2.6" fill="none" stroke-linecap="round" stroke-linejoin="round"/>
+    <circle cx="36" cy="32" r="1.8" fill="#0f172a"/>
+  </g>
+  <path d="M58 32 H74 M68.5 26.5 L74 32 L68.5 37.5" stroke="#fff" stroke-width="3.4" fill="none" stroke-linecap="round" stroke-linejoin="round" opacity=".9"/>
+  <path d="${arc(94,34,10.5,-140,-40)} ${arc(94,34,17,-145,-35)}" stroke="#fbbf24" stroke-width="2.6" fill="none" stroke-linecap="round" opacity=".95"/>
+  <circle cx="94" cy="34" r="5.6" fill="#ef4444" stroke="#fff" stroke-width="2"/>`),
+
 /* נגישות אזורי תעשייה — הסמל המקורי של אתר השותפים, על אריח לבן */
 'parks':()=>`<svg viewBox="0 0 120 120" aria-hidden="true" focusable="false"><defs><clipPath id="cl-parks"><rect width="120" height="120" rx="28"/></clipPath></defs><g clip-path="url(#cl-parks)"><rect width="120" height="120" fill="#fff"/><image href="parks/icon-180.png" x="0" y="0" width="120" height="120"/></g><rect x=".75" y=".75" width="118.5" height="118.5" rx="27.25" fill="none" stroke="#0f172a" stroke-opacity=".1" stroke-width="1.5"/></svg>`
 };
@@ -529,7 +544,8 @@ const GROUPS = [
   {k:'bus',n:'מדד דיוק האוטובוסים',d:'כל אוטובוס בארץ מול הלו"ז, תחנה אחרי תחנה: כמה הגיעו בזמן, מי יצא מוקדם ומי איחר ואיפה לאורך הקו — לפי קו, מפעיל, עיר ושעה, יום אחרי יום, מנתוני דאטאבוס',h:'bus/',vk:'bus',a:'#059669'},
   {k:'bus-speed',n:'איפה האוטובוס נתקע',d:'המהירות של האוטובוסים בכל רחוב ובכל שעה, לפי המיקום שהם משדרים: איפה נתקעים, מתי, ואיזה יישוב הכי עמוס',h:'bus-speed/',vk:'bus-speed',a:'#dc2626'},
   {k:'alerts',n:'הקו המודיע',d:'עבודות, אירועים, הפגנות וחסימות: כל השינויים הזמניים בקווים, עם המסלול העוקף על המפה, התחנות שבוטלו זמנית והתחנות החלופיות',h:'alerts/',vk:'alerts',a:'#c026d3'},
-  {k:'fleet',n:'צי הרכבים',d:'כל האוטובוסים שנצפו בשידורי האיכון — לאיזו חברה כל רכב שייך, מאיזו שנה, מתי נצפה ומה פרטיו במאגר הרישוי',h:'fleet/',vk:'fleet',a:'#2563eb'}]},
+  {k:'fleet',n:'צי הרכבים',d:'כל האוטובוסים שנצפו בשידורי האיכון — לאיזו חברה כל רכב שייך, מאיזו שנה, מתי נצפה ומה פרטיו במאגר הרישוי',h:'fleet/',vk:'fleet',a:'#2563eb'},
+  {k:'live-bus',n:'האוטובוס הבא',d:'איזה אוטובוס ייסע בנסיעה הבאה, ומה הוא עושה עכשיו — בקווים של דן בדרום ודן באר שבע',h:'live-bus/',vk:'live-bus',a:'#0d9488'}]},
  {id:'g-rail',name:'רכבת',tools:[
   {k:'rail',n:'מדד אמינות הרכבת',d:'כל רכבת שבלו"ז מול המיקום ששידרה בפועל: כמה רכבות הגיעו בזמן, איחור לפי קו, תחנה ושעה, וכל נסיעה על המפה — יום אחרי יום, מנתוני דאטאבוס',h:'rail/',vk:'rail',a:'#0284c7'},
   {k:'reception',n:'קליטה ברכבת',d:'איפה יש קליטה סלולרית ברכבת ואיפה לא: כל 100 מטר מסילה לפי האנטנות של כל חברה, המנהרות, מהירות הנסיעה בפועל וסוג הקרון — פלאפון, סלקום, פרטנר והוט, דור 4 ודור 5',h:'rail/reception/',vk:'reception',a:'#7c3aed'},
@@ -541,7 +557,7 @@ const GROUPS = [
   {k:'game',n:'🔒 משחק הקווים · בטא',on:'🔒 משחק הקווים · בבנייה',d:'מתכננים קווי אוטובוס בקריית מלאכי בתלת־ממד. גרסת בטא — בכל שבוע נפתחים 2 מקומות לבודקים',h:'game/',vk:'game',a:'#e11d48'}]}
 ];
 const PARKS = {k:'parks',n:'נגישות אזורי תעשייה',d:'ציון נגישות לתחבורה ציבורית ל-414 אזורי תעשייה ותעסוקה: תדירות בשעות השיא והליכה מהמפעל הרחוק לתחנה, מפה, דירוג ודו"ח · בשיתוף מחלקת קידום תחבורה ציבורית בהסתדרות',h:'parks/'};
-const COUNT = 'שבעה-עשר';
+const COUNT = 'שמונה-עשר';
 const ALL = GROUPS.flatMap(g => g.tools).concat([PARKS]);
 
 /* ===== HTML ===== */

diff --git a/live-bus/index.html b/live-bus/index.html
@@ -4,10 +4,18 @@
 <meta charset="utf-8">
 <script src="../theme-boot.js"></script>
 <meta name="viewport" content="width=device-width, initial-scale=1">
-<meta name="robots" content="noindex, nofollow">
+  <script src="../nav-restore.js?v=20261120b"></script><script src="../home-link.js"></script>
+<script src="../version.js" data-tool="live-bus" defer></script>
 <meta name="theme-color" content="#F2F4F8">
 <meta http-equiv="Cache-Control" content="no-cache, no-store, must-revalidate">
-<title>האוטובוס הבא</title>
+<title>האוטובוס הבא — הקו הבוחן</title>
+<meta name="description" content="איזה אוטובוס ייסע בנסיעה הבאה, ומה הוא עושה עכשיו — בקווים של דן בדרום ודן באר שבע">
+<meta property="og:title" content="האוטובוס הבא — הקו הבוחן">
+<meta property="og:description" content="איזה אוטובוס ייסע בנסיעה הבאה, ומה הוא עושה עכשיו — בקווים של דן בדרום ודן באר שבע">
+<meta property="og:image" content="https://kavbochan.app/live-bus/og-image.png?v=1">
+<meta property="og:image:width" content="1200">
+<meta property="og:image:height" content="630">
+<meta name="twitter:card" content="summary_large_image">
 <link rel="icon" type="image/svg+xml" href="../fleet/favicon.svg">
 <link rel="stylesheet" href="https://fonts.googleapis.com/css2?family=Rubik:wght@400;500;600;700;800&display=swap">
 <link rel="stylesheet" href="https://unpkg.com/leaflet@1.9.4/dist/leaflet.css">

diff --git a/README.md b/README.md
@@ -21,6 +21,7 @@
 | **מדד דיוק האוטובוסים** (`bus/`) | כל אוטובוס בארץ מול הלו"ז, תחנה אחרי תחנה: כמה הגיעו בזמן, מי יצא מוקדם ומי איחר — לפי קו, מפעיל, אשכול, עיר ושעה, יום אחרי יום. |
 | **מדד אמינות הרכבת** (`rail/`) | כל רכבת שבלו"ז מול המיקום ששידרה בפועל: איחור לפי קו, תחנה ושעה, וכל נסיעה על המפה. |
 | **צי הרכבים** (`fleet/`) | כל האוטובוסים שנצפו בשידורי האיכון: לאיזו חברה כל רכב שייך, מאיזו שנה, מתי נצפה, פרטיו במאגר הרישוי ומעברים בין חברות וערים. |
+| **האוטובוס הבא** (`live-bus/`) | בזמן אמת, בקווים של דן בדרום ודן באר שבע: איזה אוטובוס ייסע בנסיעה הבאה (מודיעים עד כשעתיים מראש), מה הוא עושה עכשיו, האם יספיק להגיע, ופרטי הרכב. חיפוש לפי מספר רכב או לפי קו, עיר ותחנה. |
 | **רציף כפול** (`ratzif/`) | שני אוטובוסים או יותר שאמורים לצאת מאותו רציף מוצא באותה דקה, לפי לוח הרישוי הרשמי. |
 | **המחירון** (`fares/`) | כמה עולה הנסיעה — בודדת, יומית וחודשית — לכל קו או בין שתי תחנות. |
 | **התחנה הבאה** (`next-station/`) | תחנות ששמן אינו תואם לרחוב שבכתובתן. |

diff --git a/CLAUDE.md b/CLAUDE.md
@@ -20,7 +20,7 @@
 
 - כל כלי מציג בתחתית הדף "שם הכלי · גרסה X.Y", ולחיצה פותחת את מה שהשתנה (`version.js`).
   הנתונים ב-`versions.json` בשורש — מפתח לכל כלי: home (האתר כולו), kavpach, line-history, fleet,
-  bus, rail, reception, feeder, alerts (הקו המודיע), bus-speed (איפה האוטובוס נתקע), fares, ratzif, skip-stops, next-station, line-changes (מצגת לשינוי בקו), kavbug (קו באג, ריפו נפרד — טוען מכאן).
+  bus, live-bus (האוטובוס הבא), rail, reception, feeder, alerts (הקו המודיע), bus-speed (איפה האוטובוס נתקע), fares, ratzif, skip-stops, next-station, line-changes (מצגת לשינוי בקו), kavbug (קו באג, ריפו נפרד — טוען מכאן).
   נגישות אזורי תעשייה (parks) — בלי גרסה, לבקשת שלמה.
 - **באותו PR** של כל שינוי שהמשתמש רואה בכלי (עיצוב, תכונה, תיקון שנראה באתר) — לעדכן את
   `versions.json`: גרסה חדשה בראש הרשימה של הכלי, עם תאריך ושורות קצרות בעברית פשוטה.
